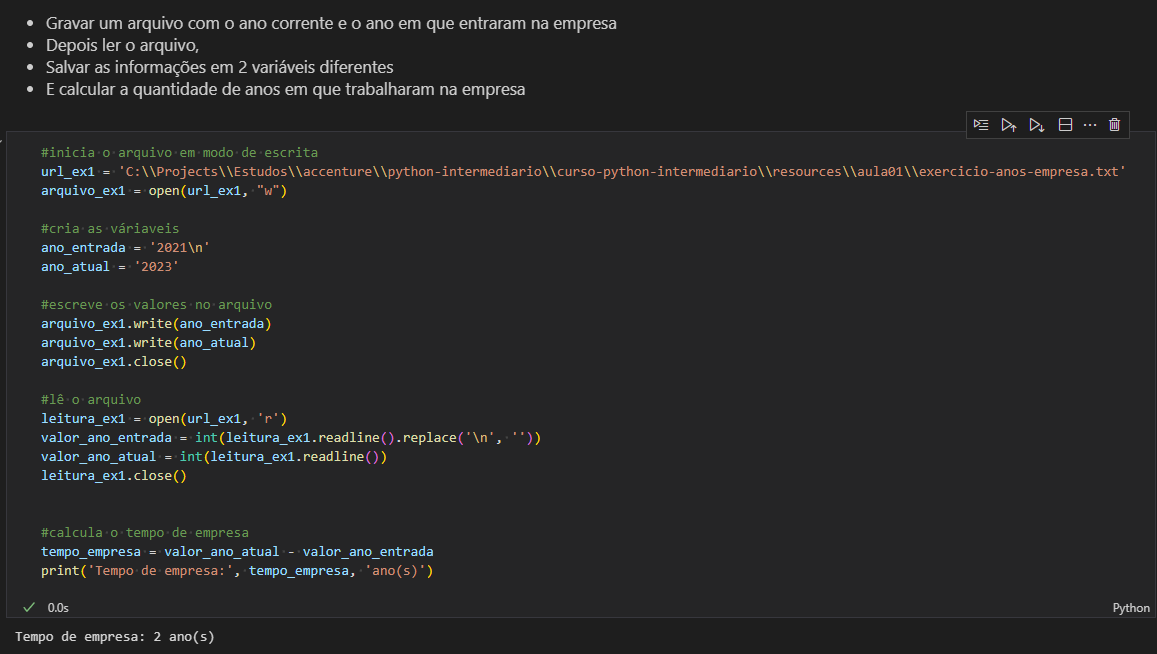
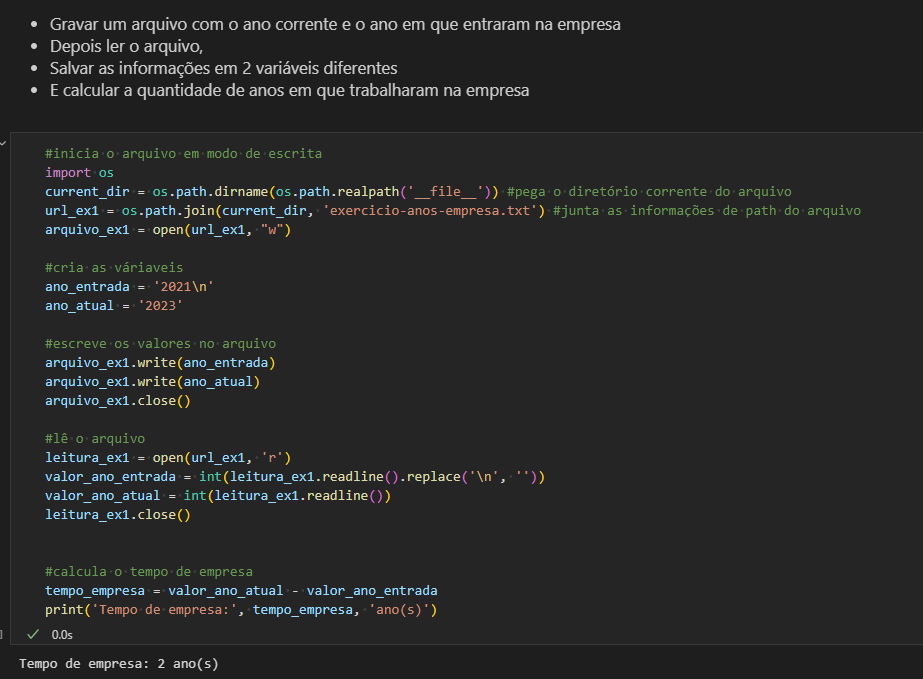
Retirada do caminho completo para criação dos arquivos

diff --git a/resources/aula01/ex1-tempo_empresa.py b/resources/aula01/ex1-tempo_empresa.py
@@ -4,7 +4,9 @@
 # E calcular a quantidade de anos em que trabalharam na empresa
 
 #inicia o arquivo em modo de escrita
-url_ex1 = 'C:\\Projects\\Estudos\\accenture\\python-intermediario\\curso-python-intermediario\\resources\\aula01-exercicio-anos-empresa.txt'
+import os
+current_dir = os.path.dirname(os.path.realpath('__file__')) #pega o diretório corrente do arquivo
+url_ex1 = os.path.join(current_dir, 'exercicio-anos-empresa.txt') #junta as informações de path do arquivo
 arquivo_ex1 = open(url_ex1, "w")
 
 #cria as váriaveis
@@ -21,6 +23,7 @@ leitura_ex1 = open(url_ex1, 'r')
 valor_ano_entrada = int(leitura_ex1.readline().replace('\n', ''))
 valor_ano_atual = int(leitura_ex1.readline())
 leitura_ex1.close()
+
 
 #calcula o tempo de empresa
 tempo_empresa = valor_ano_atual - valor_ano_entrada
